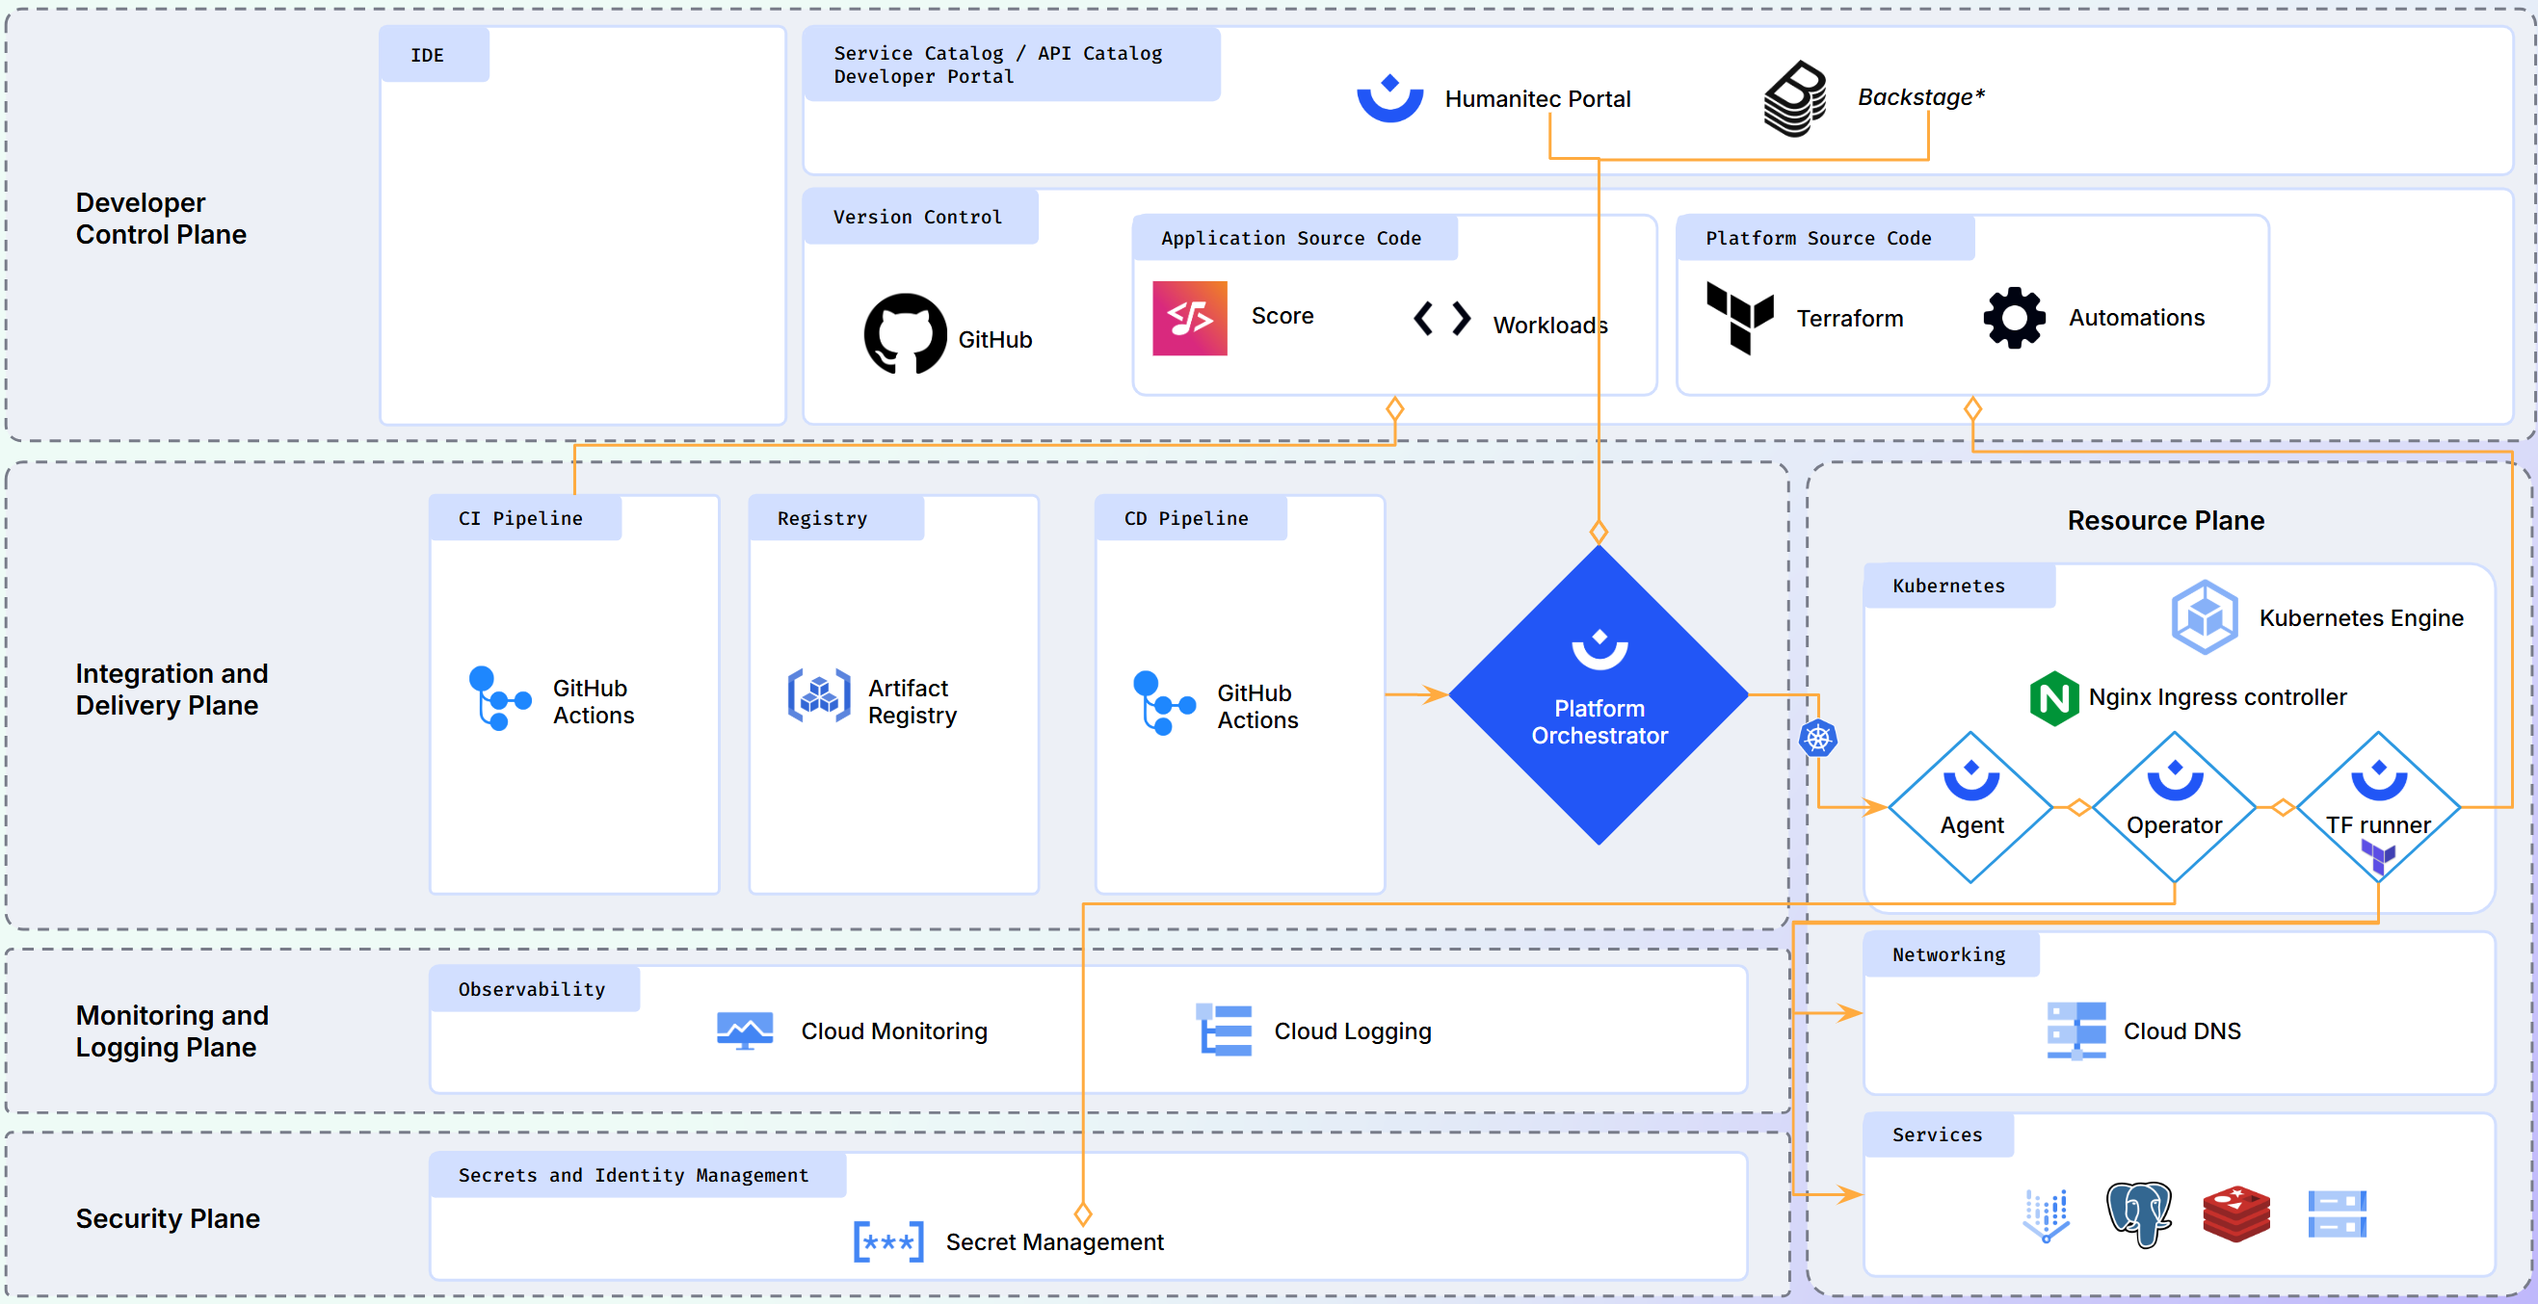
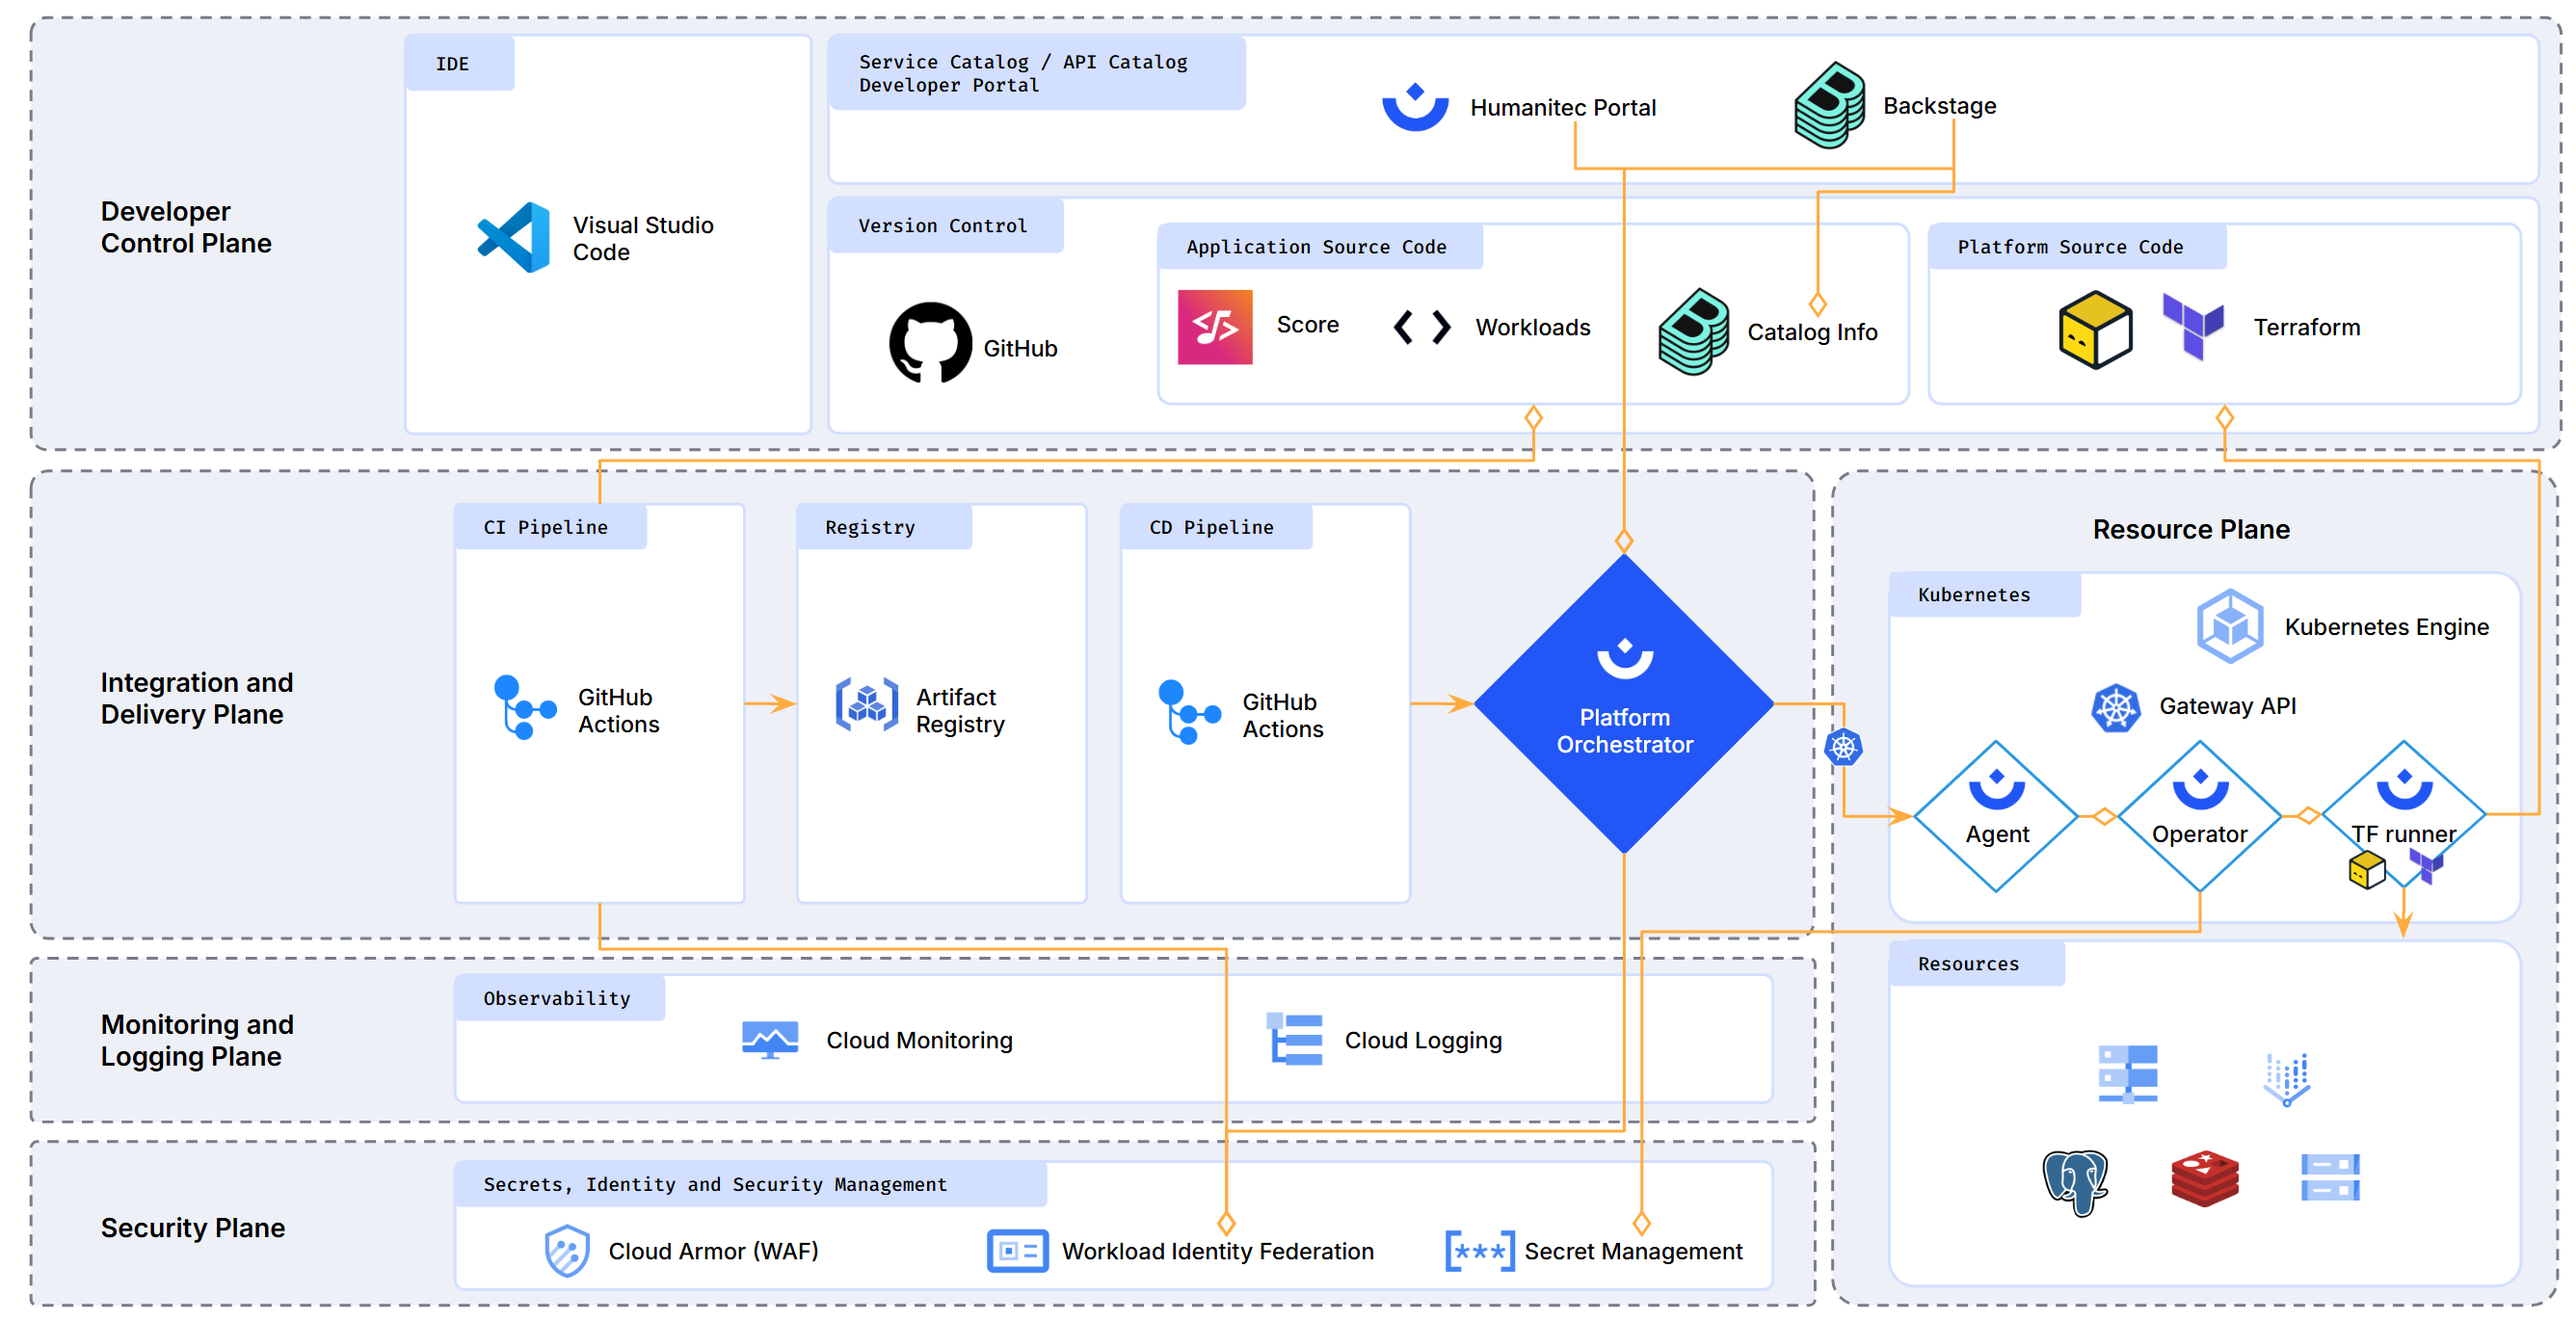
Deploy Gateway API in GKE

diff --git a/modules/gcp-cluster/README.md b/modules/gcp-cluster/README.md
@@ -16,7 +16,7 @@
 
 | Name | Type |
 |------|------|
-| [google_compute_address.public_ingress](https://registry.terraform.io/providers/hashicorp/google/latest/docs/resources/compute_address) | resource |
+| [google_compute_global_address.external_gateway](https://registry.terraform.io/providers/hashicorp/google/latest/docs/resources/compute_global_address) | resource |
 | [google_iam_workload_identity_pool.gke_cluster_access](https://registry.terraform.io/providers/hashicorp/google/latest/docs/resources/iam_workload_identity_pool) | resource |
 | [google_iam_workload_identity_pool_provider.gke_cluster_access](https://registry.terraform.io/providers/hashicorp/google/latest/docs/resources/iam_workload_identity_pool_provider) | resource |
 | [google_project_iam_custom_role.default_secretstore](https://registry.terraform.io/providers/hashicorp/google/latest/docs/resources/project_iam_custom_role) | resource |
@@ -27,14 +27,15 @@
 | [google_service_account_iam_member.gke_cluster_access](https://registry.terraform.io/providers/hashicorp/google/latest/docs/resources/service_account_iam_member) | resource |
 | [helm_release.humanitec_agent](https://registry.terraform.io/providers/hashicorp/helm/latest/docs/resources/release) | resource |
 | [helm_release.humanitec_operator](https://registry.terraform.io/providers/hashicorp/helm/latest/docs/resources/release) | resource |
-| [helm_release.ingress_nginx](https://registry.terraform.io/providers/hashicorp/helm/latest/docs/resources/release) | resource |
 | [kubernetes_cluster_role.humanitec_deploy_access](https://registry.terraform.io/providers/hashicorp/kubernetes/latest/docs/resources/cluster_role) | resource |
 | [kubernetes_cluster_role_binding.humanitec_deploy_access](https://registry.terraform.io/providers/hashicorp/kubernetes/latest/docs/resources/cluster_role_binding) | resource |
 | [kubernetes_manifest.default_secretstore](https://registry.terraform.io/providers/hashicorp/kubernetes/latest/docs/resources/manifest) | resource |
+| [kubernetes_manifest.external_gateway](https://registry.terraform.io/providers/hashicorp/kubernetes/latest/docs/resources/manifest) | resource |
+| [kubernetes_manifest.external_tls_secret](https://registry.terraform.io/providers/hashicorp/kubernetes/latest/docs/resources/manifest) | resource |
+| [kubernetes_namespace.external_gateway](https://registry.terraform.io/providers/hashicorp/kubernetes/latest/docs/resources/namespace) | resource |
 | [kubernetes_namespace.humanitec_agent](https://registry.terraform.io/providers/hashicorp/kubernetes/latest/docs/resources/namespace) | resource |
 | [kubernetes_namespace.humanitec_operator](https://registry.terraform.io/providers/hashicorp/kubernetes/latest/docs/resources/namespace) | resource |
 | [kubernetes_namespace.humanitec_runner](https://registry.terraform.io/providers/hashicorp/kubernetes/latest/docs/resources/namespace) | resource |
-| [kubernetes_namespace.ingress_nginx](https://registry.terraform.io/providers/hashicorp/kubernetes/latest/docs/resources/namespace) | resource |
 | [kubernetes_role.humanitec_deploy_runner](https://registry.terraform.io/providers/hashicorp/kubernetes/latest/docs/resources/role) | resource |
 | [kubernetes_role.humanitec_runner](https://registry.terraform.io/providers/hashicorp/kubernetes/latest/docs/resources/role) | resource |
 | [kubernetes_role_binding.humanitec_deploy_runner](https://registry.terraform.io/providers/hashicorp/kubernetes/latest/docs/resources/role_binding) | resource |
@@ -42,7 +43,9 @@
 | [kubernetes_secret.humanitec_operator](https://registry.terraform.io/providers/hashicorp/kubernetes/latest/docs/resources/secret) | resource |
 | [kubernetes_service_account.humanitec_runner](https://registry.terraform.io/providers/hashicorp/kubernetes/latest/docs/resources/service_account) | resource |
 | [tls_private_key.agent](https://registry.terraform.io/providers/hashicorp/tls/latest/docs/resources/private_key) | resource |
+| [tls_private_key.external_gateway](https://registry.terraform.io/providers/hashicorp/tls/latest/docs/resources/private_key) | resource |
 | [tls_private_key.operator](https://registry.terraform.io/providers/hashicorp/tls/latest/docs/resources/private_key) | resource |
+| [tls_self_signed_cert.external_gateway](https://registry.terraform.io/providers/hashicorp/tls/latest/docs/resources/self_signed_cert) | resource |
 | [google_client_config.default](https://registry.terraform.io/providers/hashicorp/google/latest/docs/data-sources/client_config) | data source |
 | [google_container_cluster.gke_cluster](https://registry.terraform.io/providers/hashicorp/google/latest/docs/data-sources/container_cluster) | data source |
 | [google_project.project](https://registry.terraform.io/providers/hashicorp/google/latest/docs/data-sources/project) | data source |

diff --git a/README.md b/README.md
@@ -59,6 +59,7 @@ Here are the default (Humanitec managed) resource definition not used anymore th
 ```bash
 humctl api PUT /orgs/${HUMANITEC_ORG}/resources/defs/default-humanitec-base-env/criteria --data '[]'
 humctl api PUT /orgs/${HUMANITEC_ORG}/resources/defs/default-humanitec-namespace/criteria --data '[]'
+humctl api PUT /orgs/${HUMANITEC_ORG}/resources/defs/default-humanitec-workload-res/criteria --data '[]'
 humctl api PUT /orgs/${HUMANITEC_ORG}/resources/defs/default-humanitec-dns/criteria --data '[]'
 humctl api PUT /orgs/${HUMANITEC_ORG}/resources/defs/default-humanitec-ingress/criteria --data '[]'
 humctl api PUT /orgs/${HUMANITEC_ORG}/resources/defs/default-humanitec-tls-cert/criteria --data '[]'
